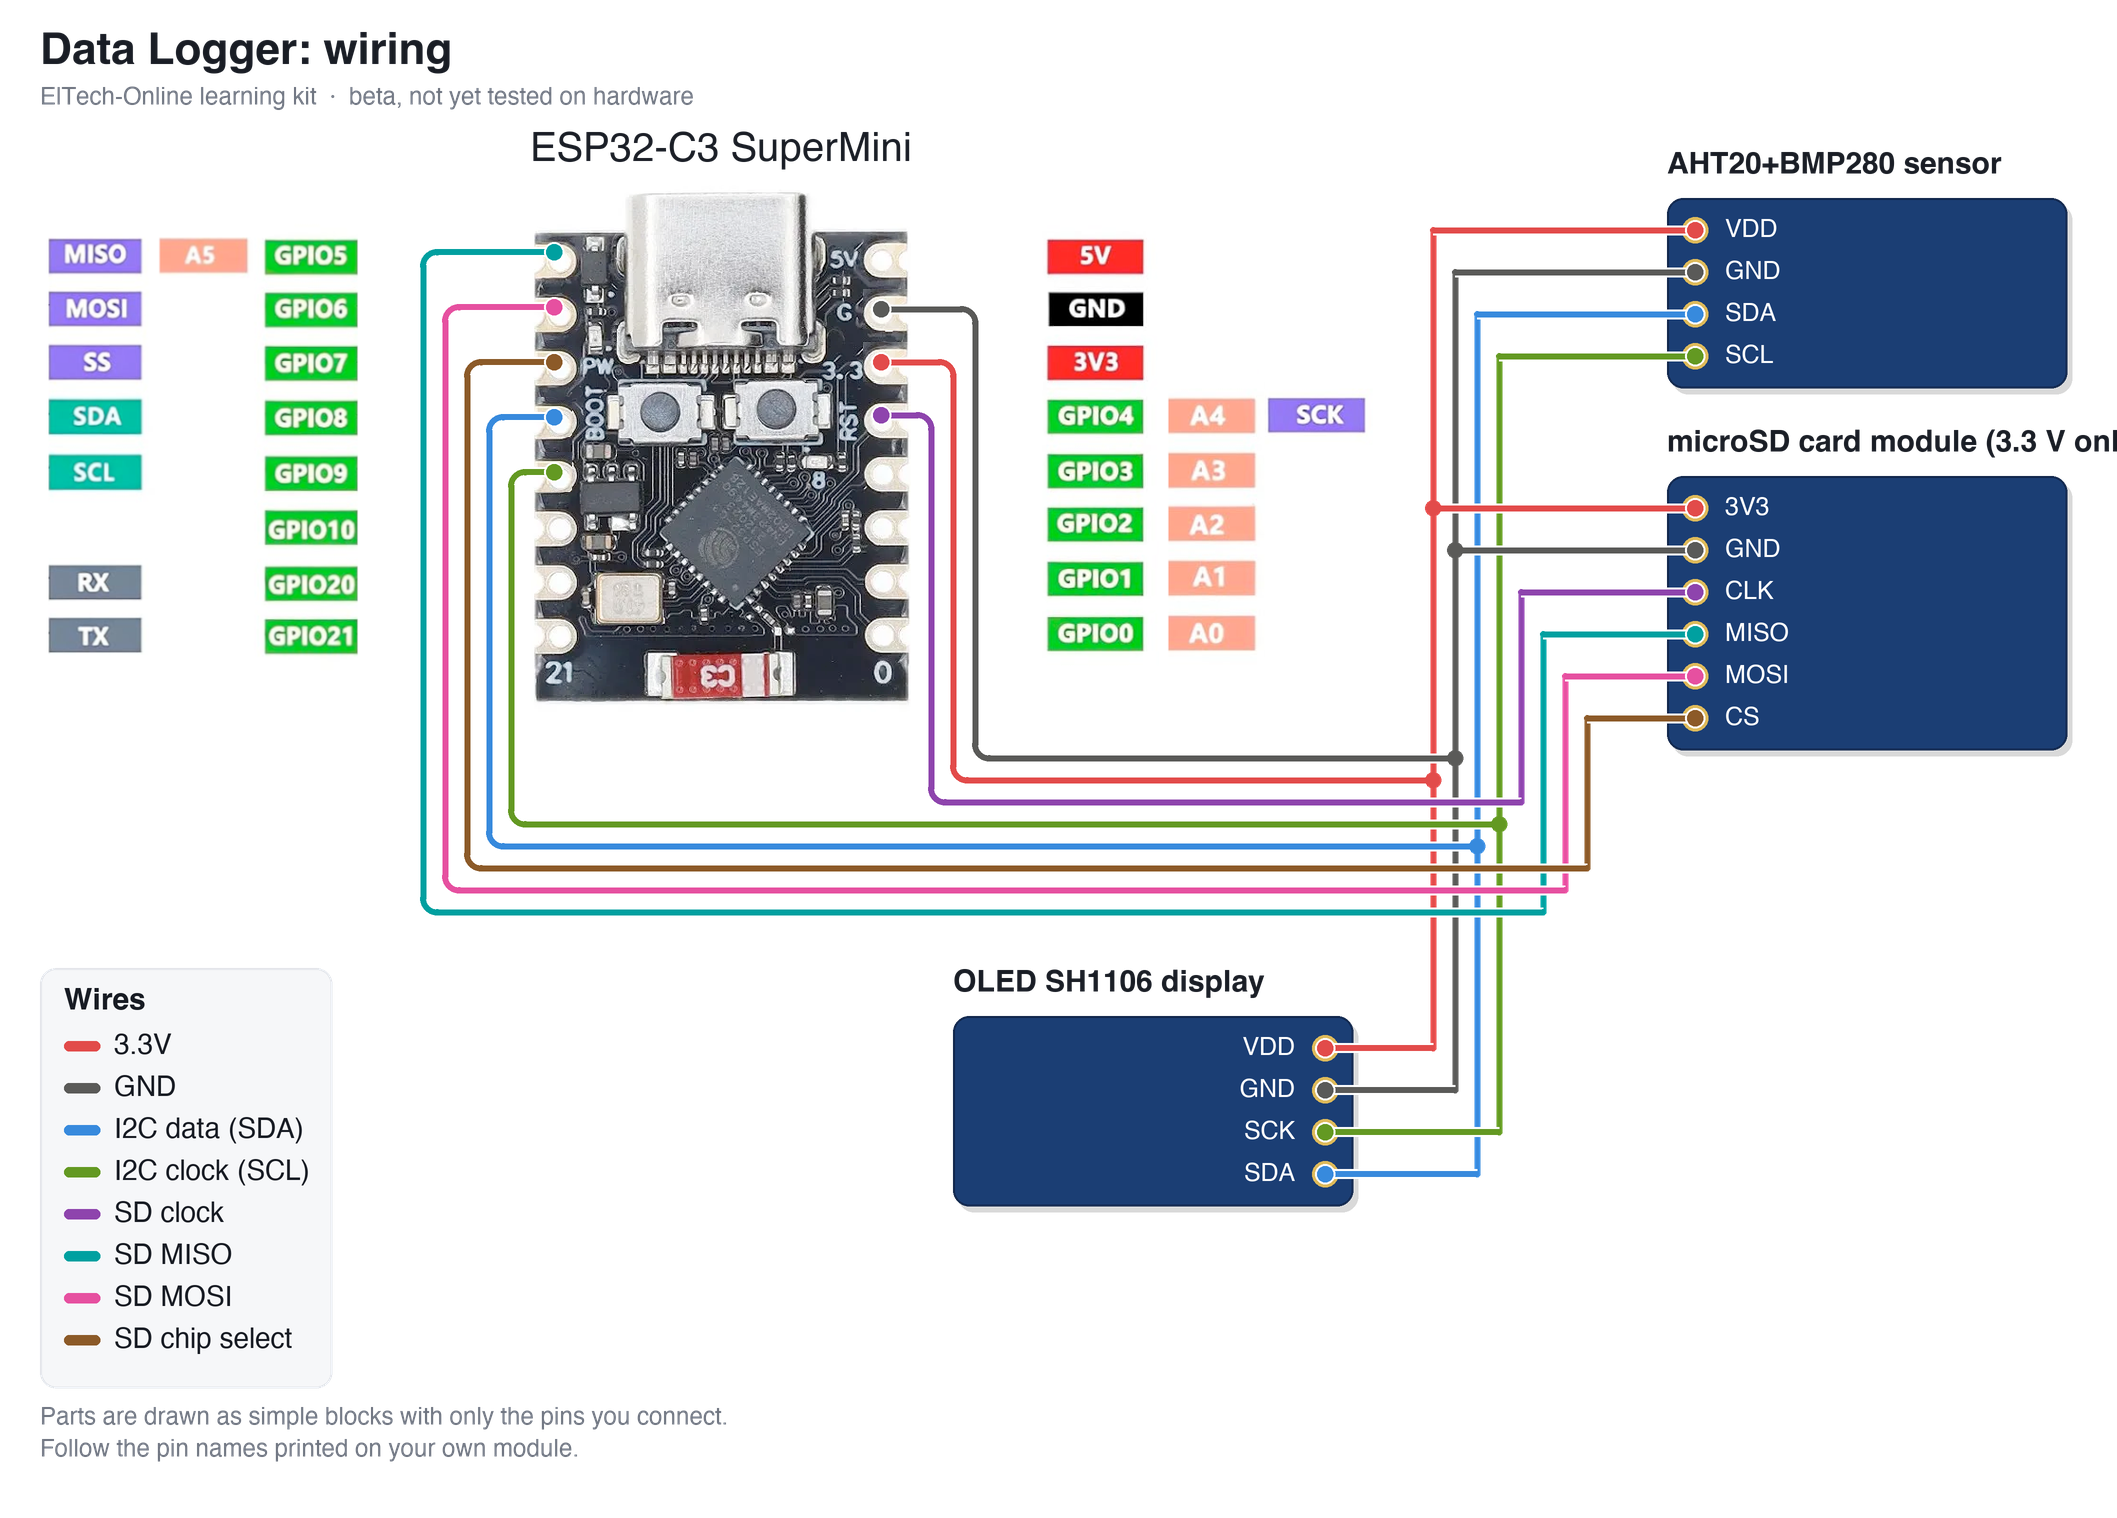
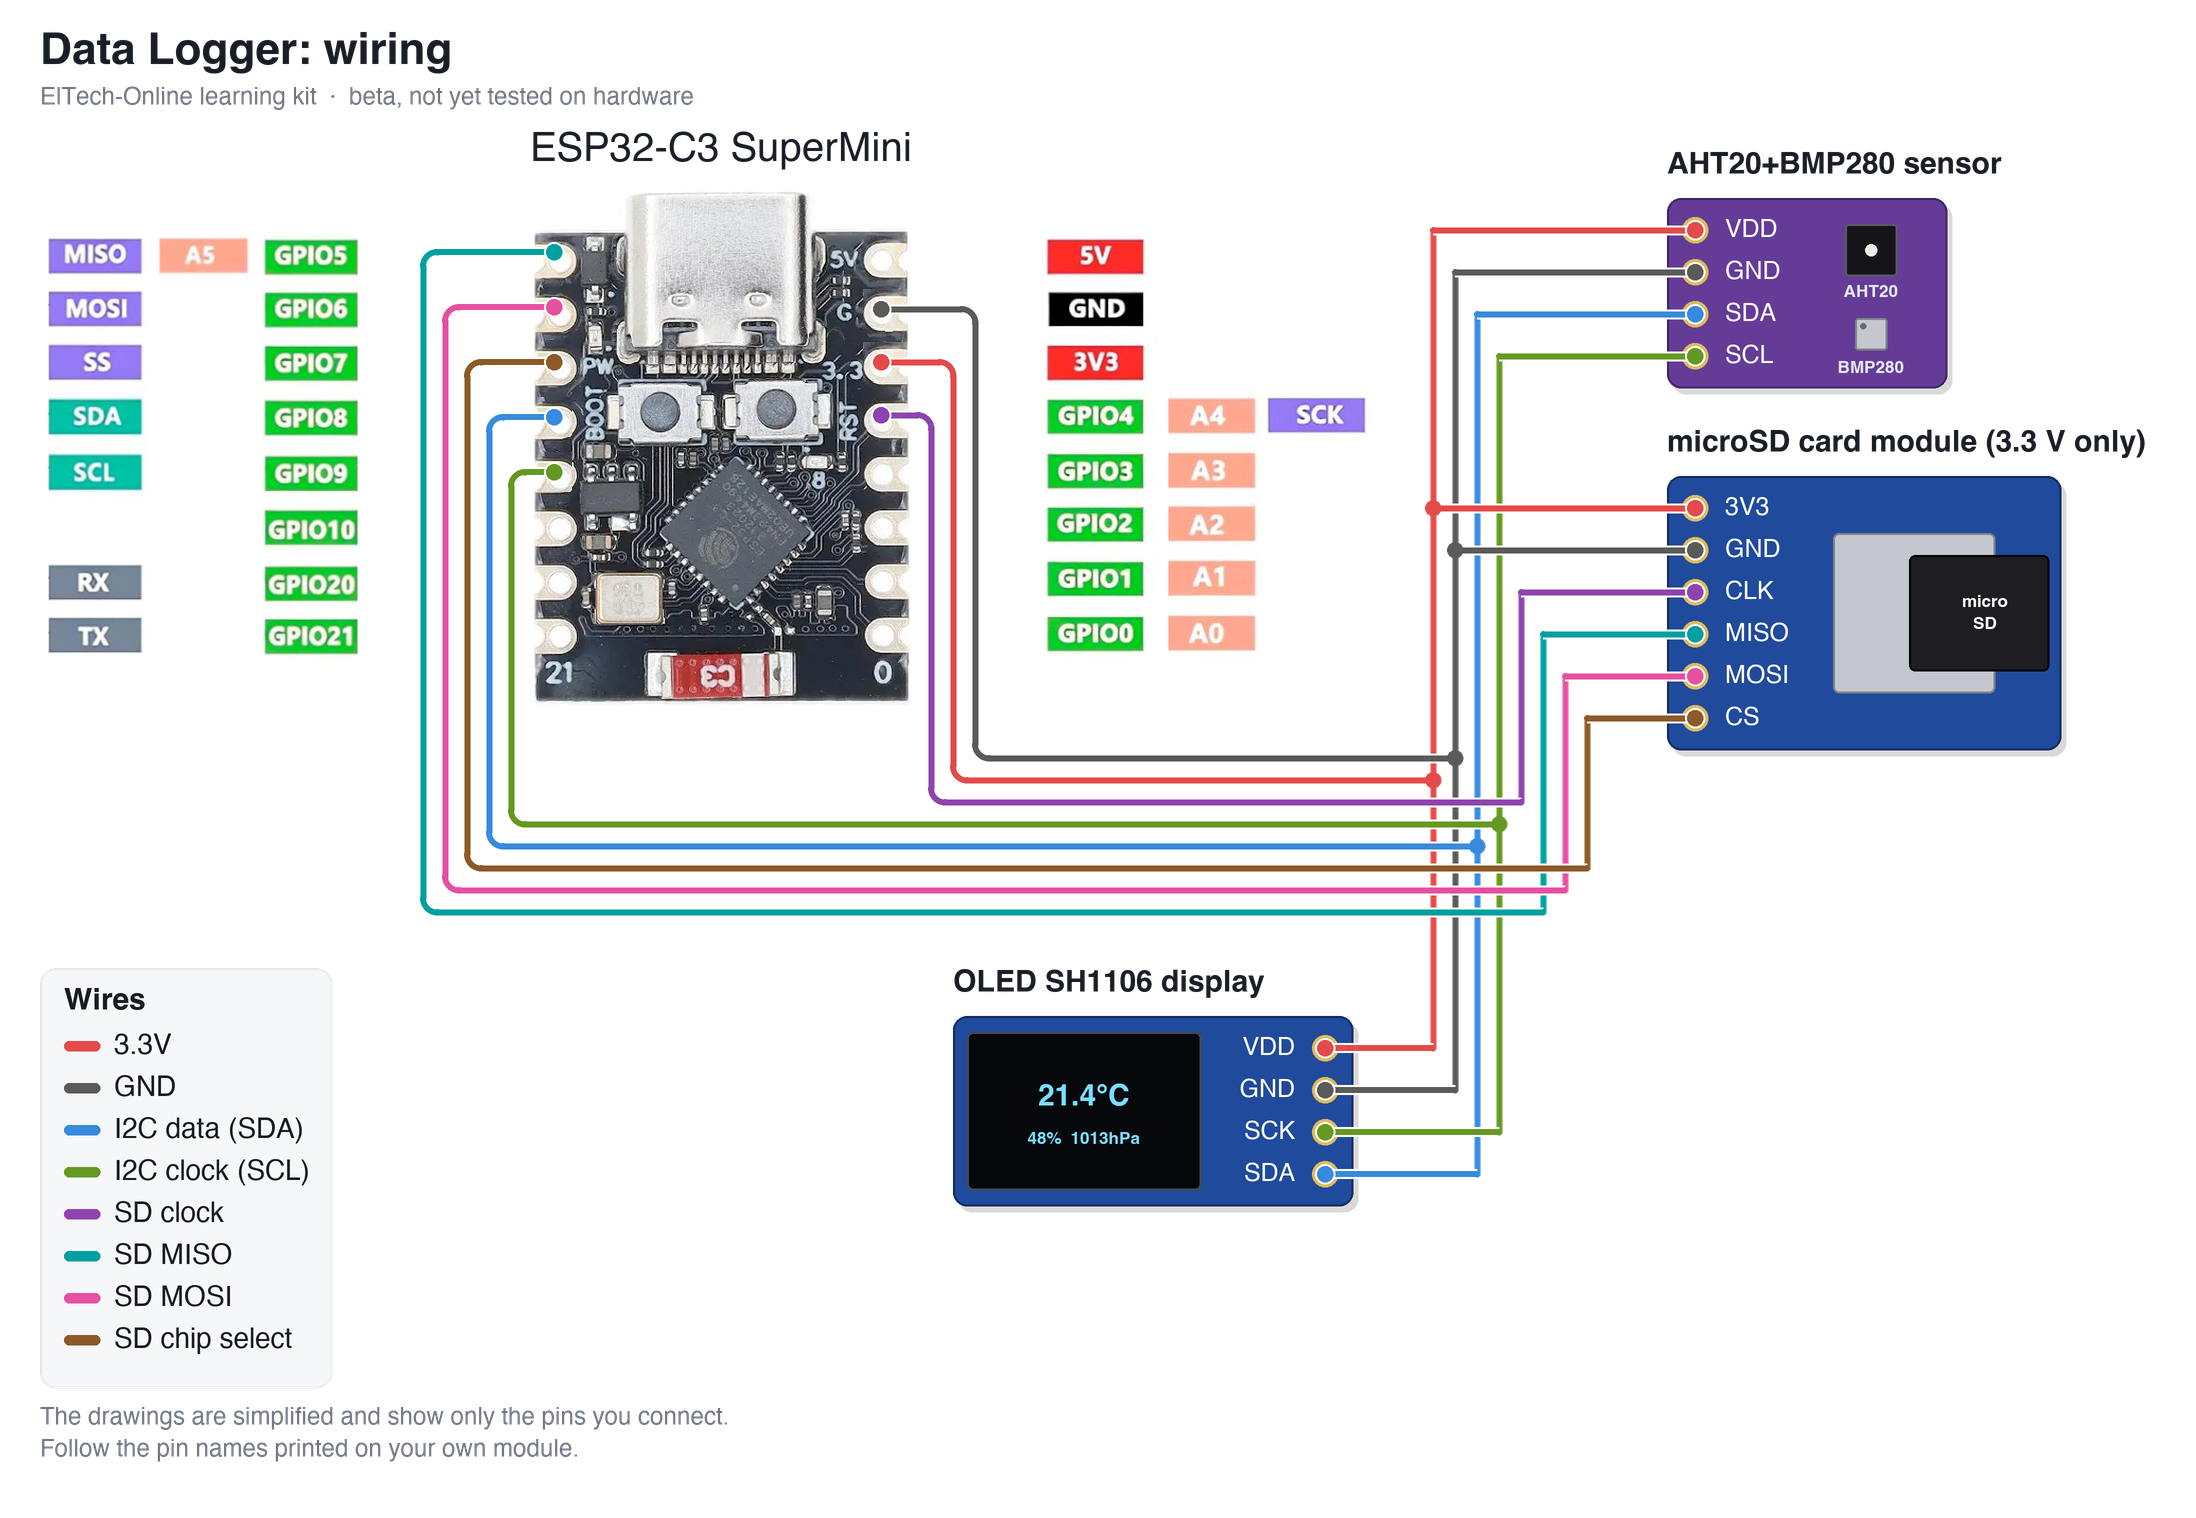
Wiring diagram: draw the parts as pictures instead of plain blocks

diff --git a/README.md b/README.md
@@ -99,7 +99,7 @@ There are **two sketches** in this repo:
 
 ![Wiring diagram: Data Logger](wiring_diagram.png)
 
-The parts are drawn as simple blocks showing only the pins you connect. **Always follow the labels printed on your own modules** — the pin order differs between manufacturers.
+The parts are drawn in a simplified way, showing only the pins you connect. **Always follow the labels printed on your own modules** — the pin order differs between manufacturers.
 
 Good to know:
 
